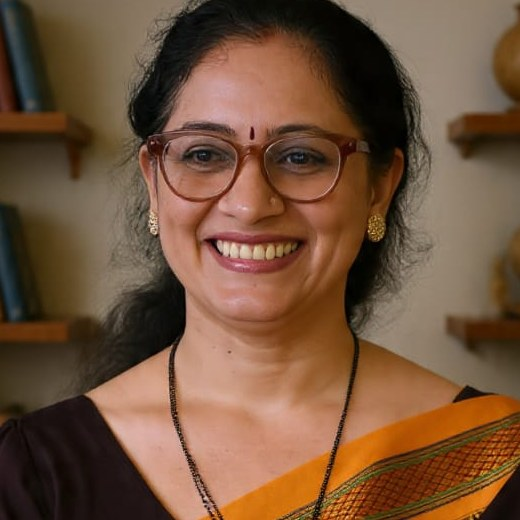
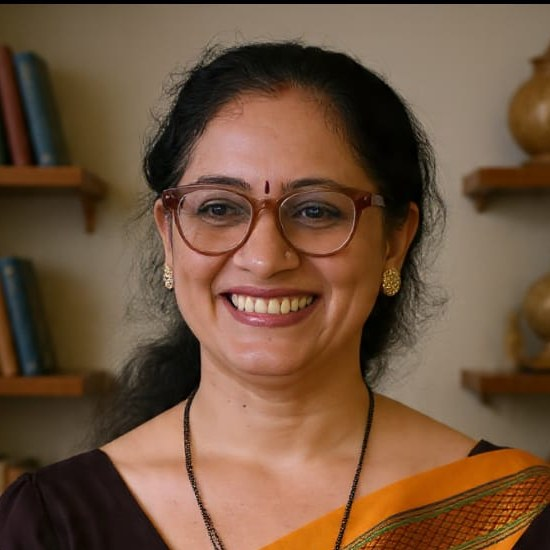
About: Tech Support beside Website Design and Creation; re-centred photos
- pairWithNext keeps the two groups on one row on desktop
- Sucheta Rege, Kalita Subramanian and Aneetha Shetty re-cropped to show
  the full head; Aniket Kanade cropped tighter to fill the circle
- Kalita's yellow cast reduced

diff --git a/src/components/TeamSection.tsx b/src/components/TeamSection.tsx
@@ -1,4 +1,4 @@
-import { TEAM, type TeamMember } from "@/lib/team";
+import { TEAM, type TeamGroup, type TeamMember } from "@/lib/team";
 import { SectionHeading } from "./SectionHeading";
 import { SpeakerPortrait } from "./SpeakerPortrait";
 
@@ -6,6 +6,11 @@ import { SpeakerPortrait } from "./SpeakerPortrait";
 export function TeamSection() {
   const [core, ...rest] = TEAM;
   const groups = rest.filter((g) => !g.hidden);
+  // Groups marked pairWithNext travel with the following group as one unit
+  const units: TeamGroup[][] = [];
+  for (let i = 0; i < groups.length; i++) {
+    units.push(groups[i].pairWithNext && groups[i + 1] ? [groups[i], groups[++i]] : [groups[i]]);
+  }
 
   return (
     <section
@@ -27,28 +32,40 @@ export function TeamSection() {
           ))}
         </ul>
 
-        {/* The largest group gets a full row; the rest sit side by side from md up */}
-        {groups.length > 0 && (
-          // Each team takes only the width it needs, so smaller teams share a row on desktop
+        {/* Each team takes only the width it needs, so smaller teams share a row on desktop */}
+        {units.length > 0 && (
           <div className="mt-16 flex flex-wrap justify-center gap-x-12 gap-y-14 border-t border-rule pt-12">
-            {groups.map((group) => (
-              <div key={group.title}>
-                <h3 className="text-center text-xs tracking-[0.3em] text-gold-deep uppercase">
-                  {group.title}
-                </h3>
-                <ul className="mt-6 flex flex-wrap justify-center gap-x-5 gap-y-8">
-                  {group.members.map((m) => (
-                    <li key={m.name} className="w-28 sm:w-32">
-                      <Member member={m} size="sm" />
-                    </li>
-                  ))}
-                </ul>
+            {units.map((unit) => (
+              <div
+                key={unit[0].title}
+                className="flex flex-wrap justify-center gap-x-12 gap-y-14 sm:flex-nowrap"
+              >
+                {unit.map((group) => (
+                  <Group key={group.title} group={group} />
+                ))}
               </div>
             ))}
           </div>
         )}
       </div>
     </section>
+  );
+}
+
+function Group({ group }: { group: TeamGroup }) {
+  return (
+    <div>
+      <h3 className="text-center text-xs tracking-[0.3em] text-gold-deep uppercase">
+        {group.title}
+      </h3>
+      <ul className="mt-6 flex flex-wrap justify-center gap-x-5 gap-y-8">
+        {group.members.map((m) => (
+          <li key={m.name} className="w-28 sm:w-32">
+            <Member member={m} size="sm" />
+          </li>
+        ))}
+      </ul>
+    </div>
   );
 }
 

diff --git a/src/lib/team.ts b/src/lib/team.ts
@@ -14,6 +14,8 @@ export type TeamGroup = {
   members: TeamMember[];
   /** Kept for later but not shown on the About page for now (15 Nov 2026). */
   hidden?: boolean;
+  /** Keep this group on the same row as the next one (they wrap together). */
+  pairWithNext?: boolean;
 };
 
 const member = (name: string, slug: string, ...roles: string[]): TeamMember => ({
@@ -77,7 +79,11 @@ export const TEAM: TeamGroup[] = [
     ],
   },
   { title: "Logistics In-charge", members: [member("Shrirang Date", "shrirang-date")] },
-  { title: "Tech Support", members: [member("Gautam Banik", "gautam-banik")] },
+  {
+    title: "Tech Support",
+    pairWithNext: true, // always beside Website Design and Creation
+    members: [member("Gautam Banik", "gautam-banik")],
+  },
   {
     title: "Website Design and Creation",
     members: [member("Aniket Kanade", "aniket-kanade")],

diff --git a/claude.md b/claude.md
@@ -112,7 +112,7 @@ Non-talk items need only `kind`, `title`, `day` and times; their body is shown i
 
 ### About page (`/about`)
 - Mission, Vision and Festival History carried over verbatim from the previous edition's About page, plus the 2026 entry.
-- "Meet Our Team" only (15 Nov 2026), in this order: Dr. Anagha Karkhanis (President, RCTH), Atul Bhide, A S Kumar (Co-Convener, TLF), Dr. Sujata Jadhav, Vasant Bhat (Secretary, RCTH) — `src/lib/team.ts`. Below it (16 Nov 2026), with slightly smaller round photos: TLF-2026 Pillars of Support (Samir Limaye, Vijay Shetty, Yashodhara Bhide); Team TLF-2026 Competitions (Sucheta Rege, Kalita Subramanian, Nandita Ganguly, Aneetha Shetty, Gautam Banik, Shrirang Date); Team TLF-2026 Galleries (Manjiri Limaye, Nilima Nagavkar, Shrirang Date, Madhavi Naik); Logistics In-charge (Shrirang Date); Tech Support (Gautam Banik); Website Design and Creation (Aniket Kanade). Teams take only the width they need and share rows on desktop when they fit. Photos from `ContentReference/AboutPhotos/` (square-cropped on the face) or `public/images/team/`. The 2025 Moderators / Event Management groups stay in the data with `hidden: true`. Members without a photo would show initials; all five now have photos. Team photos are shown in natural colour always (`tone="natural"`) — no sepia and no hover/focus effect.
+- "Meet Our Team" only (15 Nov 2026), in this order: Dr. Anagha Karkhanis (President, RCTH), Atul Bhide, A S Kumar (Co-Convener, TLF), Dr. Sujata Jadhav, Vasant Bhat (Secretary, RCTH) — `src/lib/team.ts`. Below it (16 Nov 2026), with slightly smaller round photos: TLF-2026 Pillars of Support (Samir Limaye, Vijay Shetty, Yashodhara Bhide); Team TLF-2026 Competitions (Sucheta Rege, Kalita Subramanian, Nandita Ganguly, Aneetha Shetty, Gautam Banik, Shrirang Date); Team TLF-2026 Galleries (Manjiri Limaye, Nilima Nagavkar, Shrirang Date, Madhavi Naik); Logistics In-charge (Shrirang Date); Tech Support (Gautam Banik); Website Design and Creation (Aniket Kanade). Teams take only the width they need and share rows on desktop when they fit; `pairWithNext` keeps Tech Support and Website Design and Creation on the same row. Photos from `ContentReference/AboutPhotos/` (square-cropped on the face) or `public/images/team/`. The 2025 Moderators / Event Management groups stay in the data with `hidden: true`. Members without a photo would show initials; all five now have photos. Team photos are shown in natural colour always (`tone="natural"`) — no sepia and no hover/focus effect.
 
 ### Competitions page (`/competitions`)
 - One card per competition: poster (opens full size) beside transcribed details — prompt, word/time limit, languages, prizes, guidelines, eligibility, submission email (or "Submission details to be announced").
